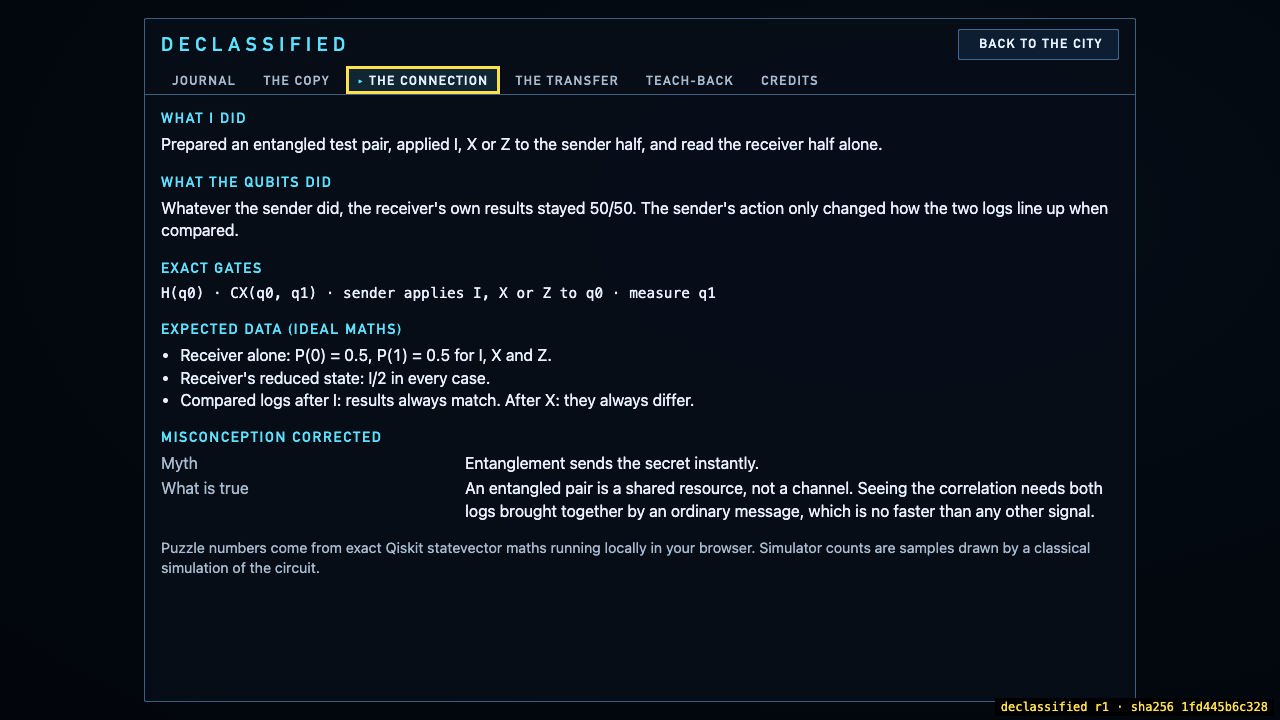
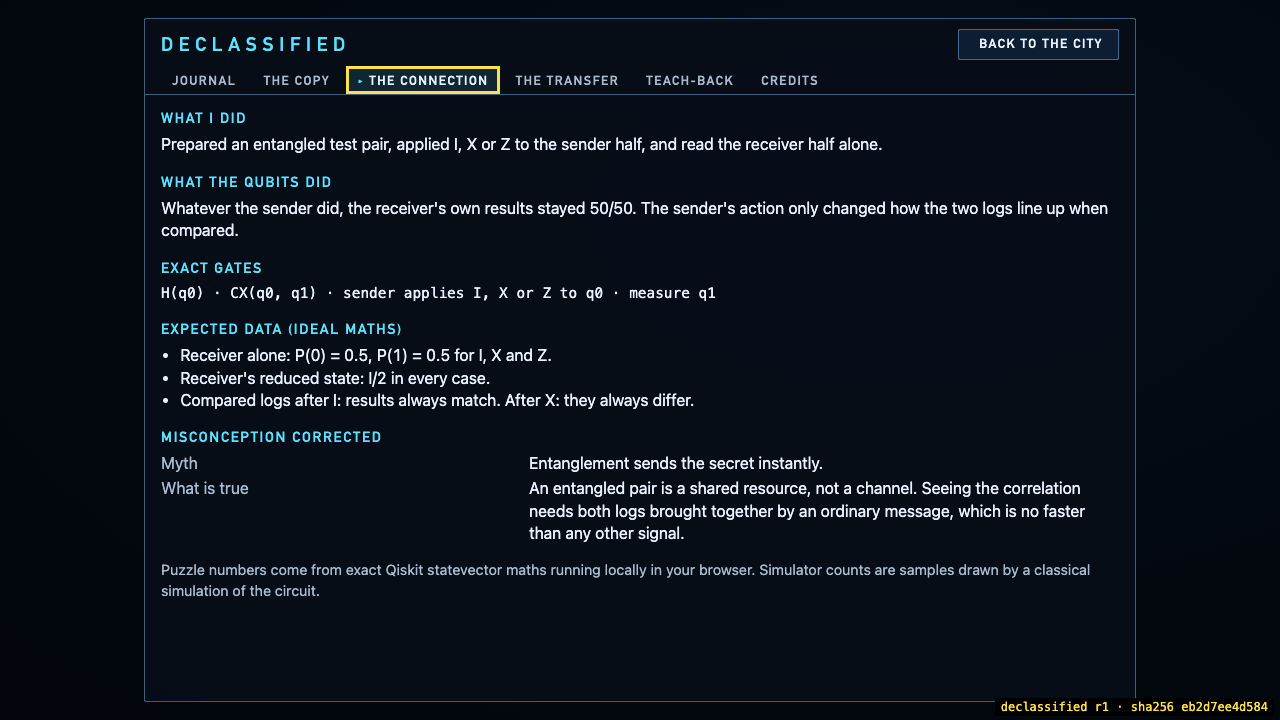
story-ui/declassified: no mid-formula wrap in the rule label; scrolled journal render; wait for port 8771

Changed region(s): [[0.125, 0.6111, 0.875, 0.825], [0.9062, 0.9778, 1.0, 1.0]]

diff --git a/echo/data/teachback.js b/echo/data/teachback.js
@@ -145,7 +145,8 @@ export const RUN_JOURNAL = Object.freeze({
     receiver: 'Receiver alone',
     dryRun: 'Dry run',
     applied: 'You applied',
-    rule: 'Rule for these bits (X if m1 = 1, Z if m0 = 1)',
+    // No-break spaces keep each "m1 = 1" on one line.
+    rule: 'Rule for these bits (X if m1\u00A0=\u00A01, Z if m0\u00A0=\u00A01)',
     none: 'no correction',
     fidelity: 'Fidelity with the test state',
     commitFidelity: 'Fidelity with the original state (simulation check)',

diff --git a/echo/main.css b/echo/main.css
@@ -642,7 +642,7 @@
 .echo-declass__readings,
 .echo-declass__myth {
   display: grid;
-  grid-template-columns: minmax(8em, 18em) minmax(0, 1fr);
+  grid-template-columns: minmax(8em, 22em) minmax(0, 1fr);
   gap: 0.15em 1em;
   margin: 0;
 }
